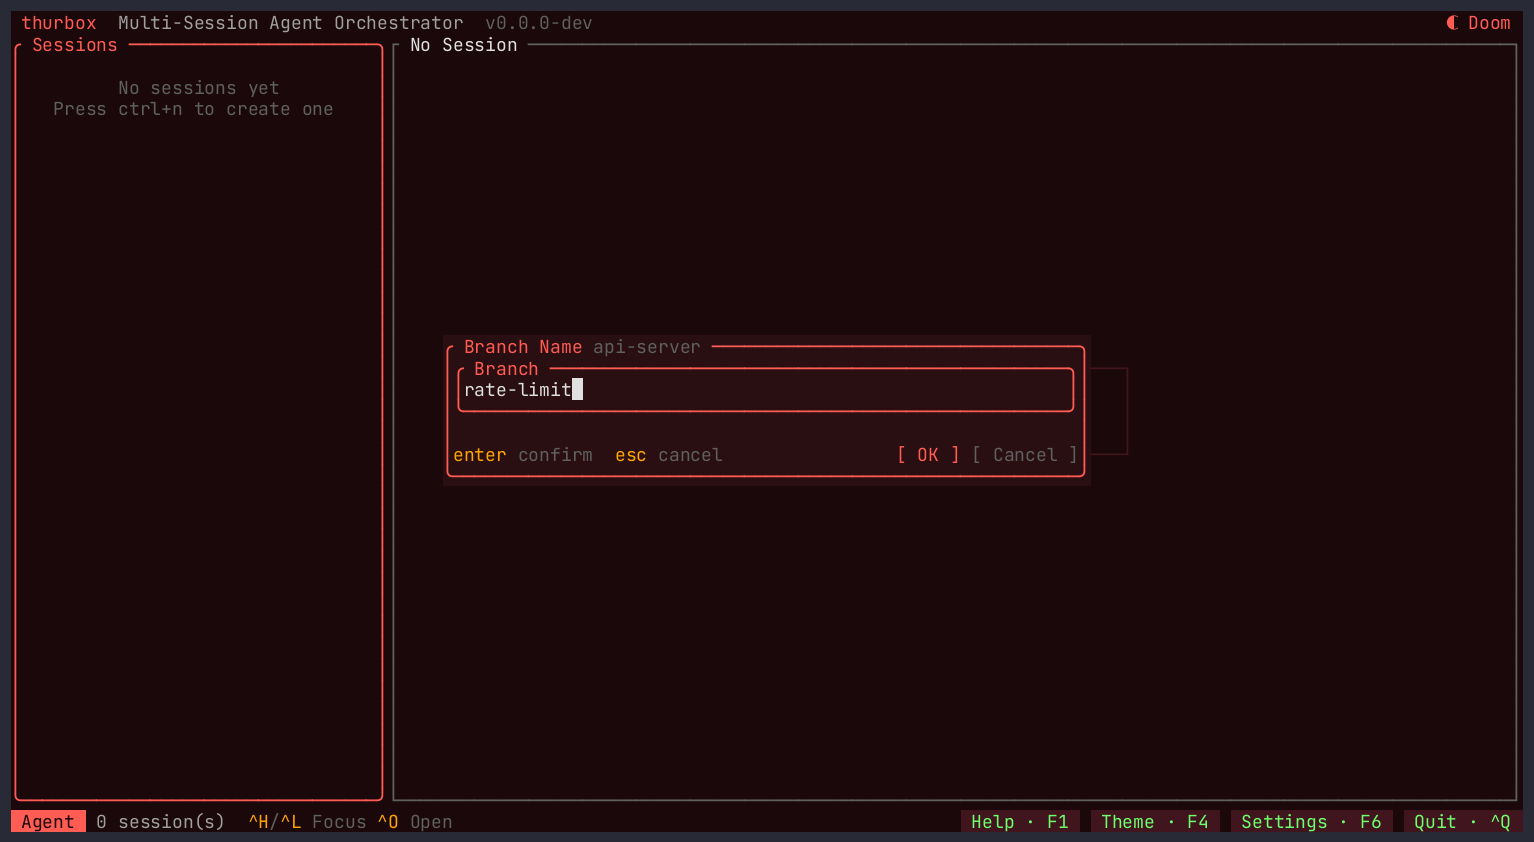
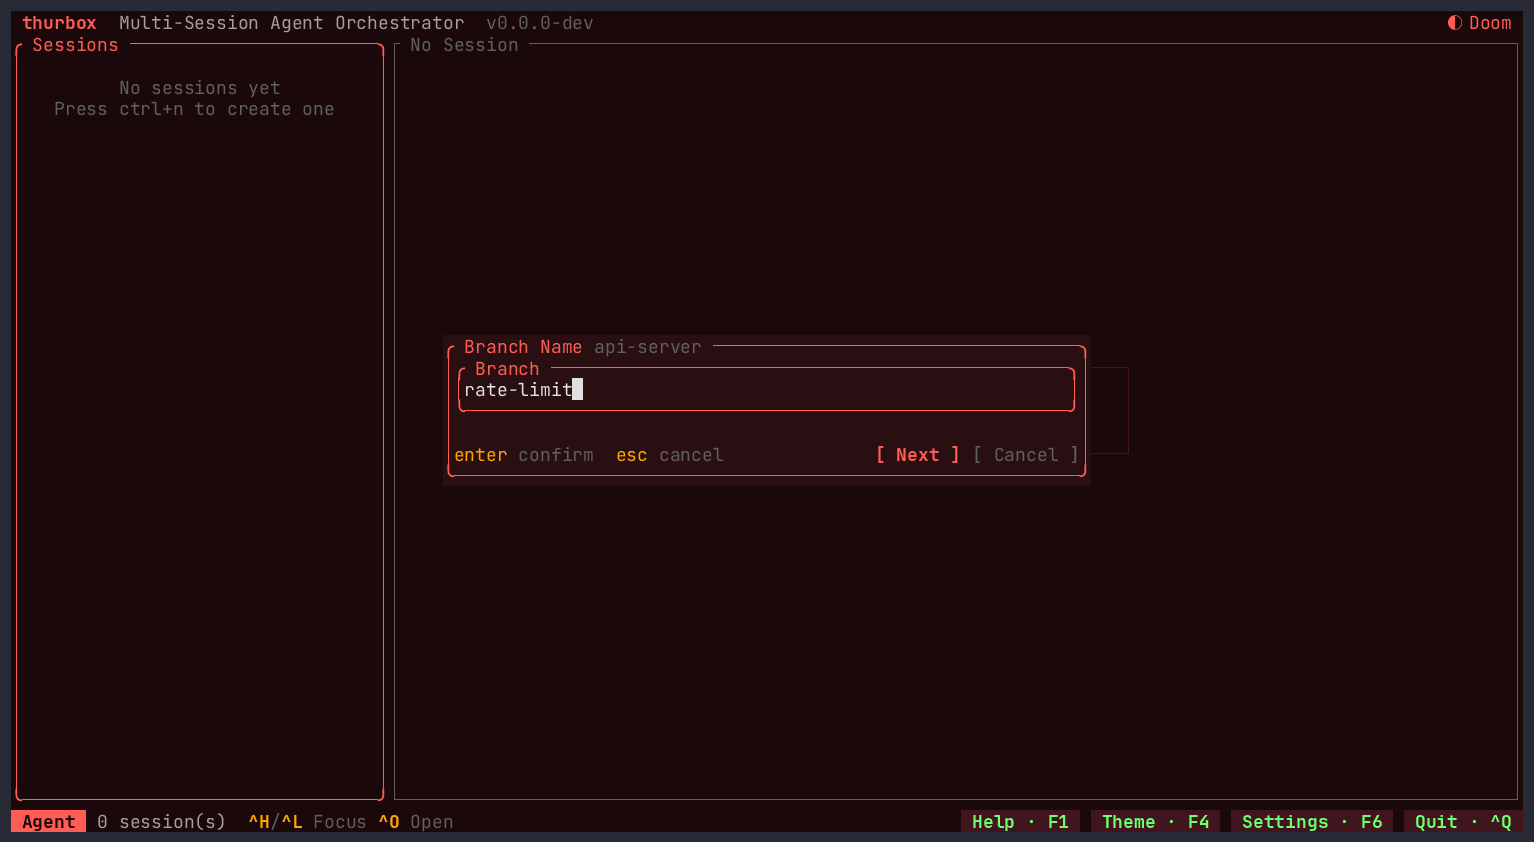
fix(ui): say what enter does at each step of the creation flow
The creation flow's footer offers two pills, and both REPLAY a key: the
primary one presses `enter`, the dismiss one presses `esc`. Their labels
were fixed strings while the keys behind them are not.

The repo step was the worst of it. `enter` there means four different
things depending on focus — add the typed path, pick or descend into a
browsed row, keep the filter, or move on to the next question — and the
pill said "Done" in all four. Adding a repository is the one that reads
most wrongly: "Done" says the flow ends, and it does not; it stays on
this very step with the repository added. `esc` was labelled "Cancel"
while it was in fact clearing the search, or closing the dropdown.

Its siblings had the same defect. The agent step said "Select" for an
`enter` that spawns the session. The name and branch-name fields said
"OK" for an `enter` that sometimes asks the next question and sometimes
creates outright. The base-branch step offered "Select" while it was
still fetching, with nothing to select and nothing that key would do.

Every pill now names the action of the state it is in, and none is
offered where the key would do nothing: no confirm while a listing or a
branch list has not arrived, and none over an empty path field. `enter`
has left the hints in the states where the pill now carries its action
word for word — the strip is 58 columns, and the repetition had been
costing `alt+p import parent` its description entirely.
[…]

diff --git a/tests/new_session.rs b/tests/new_session.rs
@@ -1405,3 +1405,228 @@ fn the_arrows_still_move_the_list_while_a_field_has_focus() {
         "and off the first: {picked}"
     );
 }
+
+// ── What the confirm pill says ─────────────────────────────────────────────
+//
+// The pills replay `enter` and `esc`, so their labels are claims about what
+// those keys do. Both keys mean something different in nearly every state of
+// this flow, and a fixed pair of labels made most of those claims false.
+
+#[test]
+fn the_repository_list_offers_the_next_step_rather_than_done() {
+    // `enter` on the list carries the ticked repositories into the next
+    // question; it does not finish anything, and there are three more steps
+    // behind it.
+    let h = host();
+    let world = World::default();
+    open(&h, &world);
+    let screen = drawn(&h, &world);
+    assert!(screen.contains("[ Next ]"), "{screen}");
+}
+
+#[test]
+fn the_typed_path_field_offers_to_add_the_repository() {
+    // `enter` here adds what was typed to memory and leaves the flow on this
+    // very step — the one place the old label read most like "finish". An empty
+    // field has nothing to add, so it offers no pill rather than an inert one.
+    let h = host();
+    let world = World::default();
+    open(&h, &world);
+    press(&h, &world, "tab");
+    let empty = drawn(&h, &world);
+    assert!(
+        !empty.contains("[ Add repo ]"),
+        "nothing typed yet: {empty}"
+    );
+    assert!(!empty.contains("[ Next ]"), "{empty}");
+
+    type_text(&h, &world, "/srv/thing");
+    let screen = drawn(&h, &world);
+    assert!(screen.contains("[ Add repo ]"), "{screen}");
+}
+
+#[test]
+fn the_search_pills_name_the_filter_they_act_on() {
+    // With the search focused `esc` clears the filter rather than closing the
+    // flow, so the dismiss pill must not claim to cancel.
+    let h = host();
+    let world = World::default();
+    open(&h, &world);
+    press(&h, &world, "/");
+    let screen = drawn(&h, &world);
+    assert!(screen.contains("[ Keep filter ]"), "{screen}");
+    assert!(screen.contains("[ Clear ]"), "{screen}");
+    assert!(!screen.contains("[ Cancel ]"), "{screen}");
+}
+
+#[test]
+fn the_browse_pill_follows_the_row_the_dropdown_is_on() {
+    // "open/pick" is two actions: a repository is remembered, a plain directory
+    // is descended into. And `esc` closes the dropdown, not the flow.
+    let h = host();
+    let mut world = World::default();
+    world.repos.set_listing_for_test(
+        "",
+        "/srv",
+        Listing::Ready(vec![
+            BrowseEntry {
+                name: "repos".into(),
+                is_git: false,
+            },
+            BrowseEntry {
+                name: "thing".into(),
+                is_git: true,
+            },
+        ]),
+    );
+    world.wants.browse = Some((String::new(), "/srv".into()));
+    open(&h, &world);
+    press(&h, &world, "tab");
+    type_text(&h, &world, "/srv/");
+    press(&h, &world, "tab");
+    let screen = drawn(&h, &world);
+    assert!(screen.contains("[ Open ]"), "a plain directory: {screen}");
+    assert!(screen.contains("[ Close ]"), "{screen}");
+    assert!(!screen.contains("[ Cancel ]"), "{screen}");
+
+    press(&h, &world, "down");
+    let screen = drawn(&h, &world);
+    assert!(screen.contains("[ Add repo ]"), "a repository: {screen}");
+}
+
+#[test]
+fn a_listing_that_has_not_arrived_offers_no_pill_to_press() {
+    let h = host();
+    let mut world = World::default();
+    world
+        .repos
+        .set_listing_for_test("", "/srv", Listing::Pending);
+    world.wants.browse = Some((String::new(), "/srv".into()));
+    open(&h, &world);
+    press(&h, &world, "tab");
+    type_text(&h, &world, "/srv/");
+    press(&h, &world, "tab");
+    let screen = drawn(&h, &world);
+    assert!(
+        !screen.contains("[ Open ]") && !screen.contains("[ Add repo ]"),
+        "there is no row to act on yet: {screen}"
+    );
+}
+
+#[test]
+fn an_existing_worktree_row_offers_to_open_it() {
+    // The one row in this list that is not a thing to tick.
+    let h = host();
+    let mut world = World::default();
+    world.repos.set_worktrees_for_test(
+        "",
+        "/src/thurbox",
+        Worktrees::Ready(vec![ExistingWorktree {
+            path: "/src/thurbox/.worktrees/dynamic-tooltips".into(),
+            branch: "feat/dynamic-tooltips".into(),
+        }]),
+    );
+    open(&h, &world);
+    world.wants.worktrees = Some((String::new(), "/src/thurbox".into()));
+    assert!(drawn(&h, &world).contains("[ Next ]"), "on the repo row");
+    press(&h, &world, "down");
+    let screen = drawn(&h, &world);
+    assert!(screen.contains("[ Open ]"), "{screen}");
+}
+
+#[test]
+fn the_branch_step_offers_nothing_to_select_while_it_is_still_fetching() {
+    let h = host();
+    let mut world = World::default();
+    world
+        .repos
+        .set_branches_for_test("", "/src/thurbox", Branches::Pending);
+    open(&h, &world);
+    press(&h, &world, "space");
+    press(&h, &world, "w");
+    press(&h, &world, "enter");
+    world.wants.branches = Some((String::new(), "/src/thurbox".into()));
+    let screen = drawn(&h, &world);
+    assert!(
+        !screen.contains("[ Select ]"),
+        "a pill here would do nothing when pressed: {screen}"
+    );
+
+    world.repos.set_branches_for_test(
+        "",
+        "/src/thurbox",
+        Branches::Ready(vec!["origin/main".into(), "main".into()]),
+    );
+    let screen = drawn(&h, &world);
+    assert!(
+        screen.contains("[ Select ]"),
+        "once there is a list: {screen}"
+    );
+}
+
+#[test]
+fn the_last_question_says_that_answering_it_creates_the_session() {
+    // The agent step spawns on `enter`; it does not merely settle the agent.
+    let h = host();
+    let world = World::default();
+    open(&h, &world);
+    press(&h, &world, "space");
+    press(&h, &world, "enter");
+    let named = drawn(&h, &world);
+    assert!(
+        named.contains("Session Name") && named.contains("[ Next ]"),
+        "the agent is still to come: {named}"
+    );
+    type_text(&h, &world, "x");
+    press(&h, &world, "enter");
+    let screen = drawn(&h, &world);
+    assert!(
+        screen.contains("Coding Agent") && screen.contains("[ Create ]"),
+        "{screen}"
+    );
+}
+
+#[test]
+fn a_name_that_is_the_last_question_says_so_too() {
+    // One agent is not a question, so `enter` on the name field spawns.
+    let h = host();
+    let mut world = World::default();
+    world.snapshot.agents.truncate(1);
+    open(&h, &world);
+    press(&h, &world, "space");
+    press(&h, &world, "enter");
+    let screen = drawn(&h, &world);
+    assert!(
+        screen.contains("Session Name") && screen.contains("[ Create ]"),
+        "{screen}"
+    );
+}
+
+#[test]
+fn the_branch_name_is_not_the_last_question_when_an_agent_is_still_to_come() {
+    let h = host();
+    let mut world = World::default();
+    world.repos.set_branches_for_test(
+        "",
+        "/src/thurbox",
+        Branches::Ready(vec!["origin/main".into()]),
+    );
+    open(&h, &world);
+    press(&h, &world, "space");
+    press(&h, &world, "w");
+    press(&h, &world, "enter");
+    world.wants.branches = Some((String::new(), "/src/thurbox".into()));
+    press(&h, &world, "enter");
+    let screen = drawn(&h, &world);
+    assert!(
+        screen.contains("Session Name") && screen.contains("[ Next ]"),
+        "the branch name comes after the session name: {screen}"
+    );
+    type_text(&h, &world, "x");
+    press(&h, &world, "enter");
+    let screen = drawn(&h, &world);
+    assert!(
+        screen.contains("Branch Name") && screen.contains("[ Next ]"),
+        "{screen}"
+    );
+}

diff --git a/docs/TUTORIAL.md b/docs/TUTORIAL.md
@@ -134,7 +134,7 @@ Then the agent. This is the list from `~/.config/thurbox/agents.toml` — the
 built-ins thurbox seeds, plus any CLI you have described yourself. (With only
 one agent defined, this step is skipped.)
 
-![The agent picker listing claude, codex, antigravity, opencode, aider, copilot, vibe, pi, omp](../media/tutorial/10-agent-picker.png)
+![The agent picker listing claude, codex, antigravity, opencode, aider, copilot, vibe, pi, omp, shell](../media/tutorial/10-agent-picker.png)
 
 `Enter` creates everything: the worktree, the tmux window, and the agent
 running inside it.
